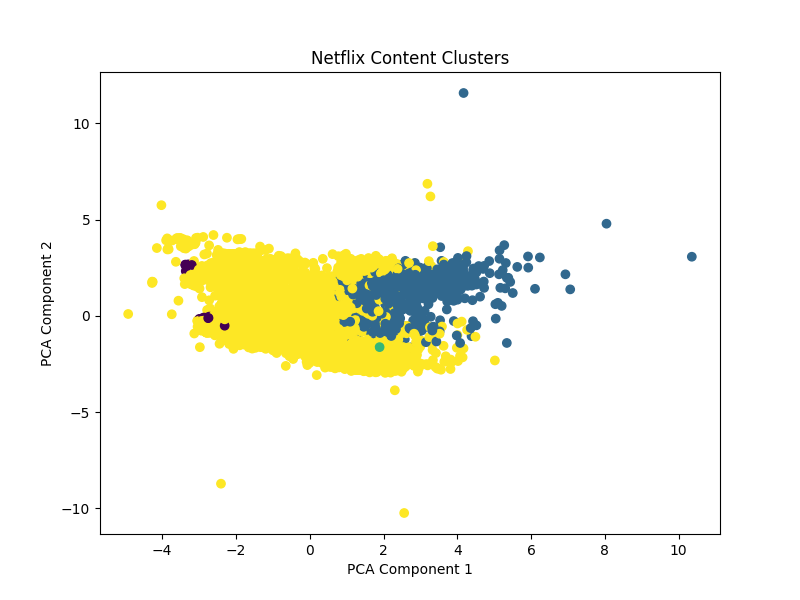
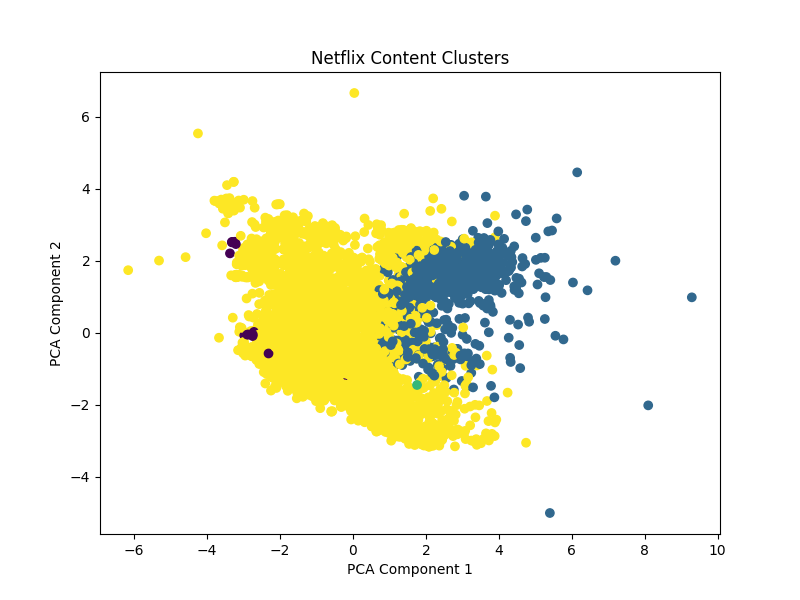
Update Netflix project files and milestone analysis

diff --git a/milestone3.py b/milestone3.py
@@ -100,9 +100,29 @@ kmeans = KMeans(
 
 clusters = kmeans.fit_predict(scaled_data)
 
+# Save cluster labels
 df["Cluster"] = clusters
 
-print(df[["title","Cluster"]].head())
+# ==========================================
+# Cluster Summary
+# ==========================================
+
+print("\n===== Cluster Summary =====")
+
+for cluster in sorted(df["Cluster"].unique()):
+    print(f"\nCluster {cluster}")
+    cluster_data = df[df["Cluster"] == cluster]
+
+    print("Content Type:")
+    print(cluster_data["type"].value_counts())
+
+    print("\nTop Countries:")
+    print(cluster_data["country"].value_counts().head(5))
+
+    print("\nTop Genres:")
+    print(cluster_data["listed_in"].value_counts().head(5))
+
+    print("-" * 50)
 
 # ==========================================
 # PCA Visualization
@@ -216,4 +236,5 @@ df.to_csv(
     index=False
 )
 
-print("\nMilestone 3 Completed Successfully!")
+print("\nMilestone 3 Completed Successfully! Output saved to 'netflix_milestone3_output.csv'.")
+      
